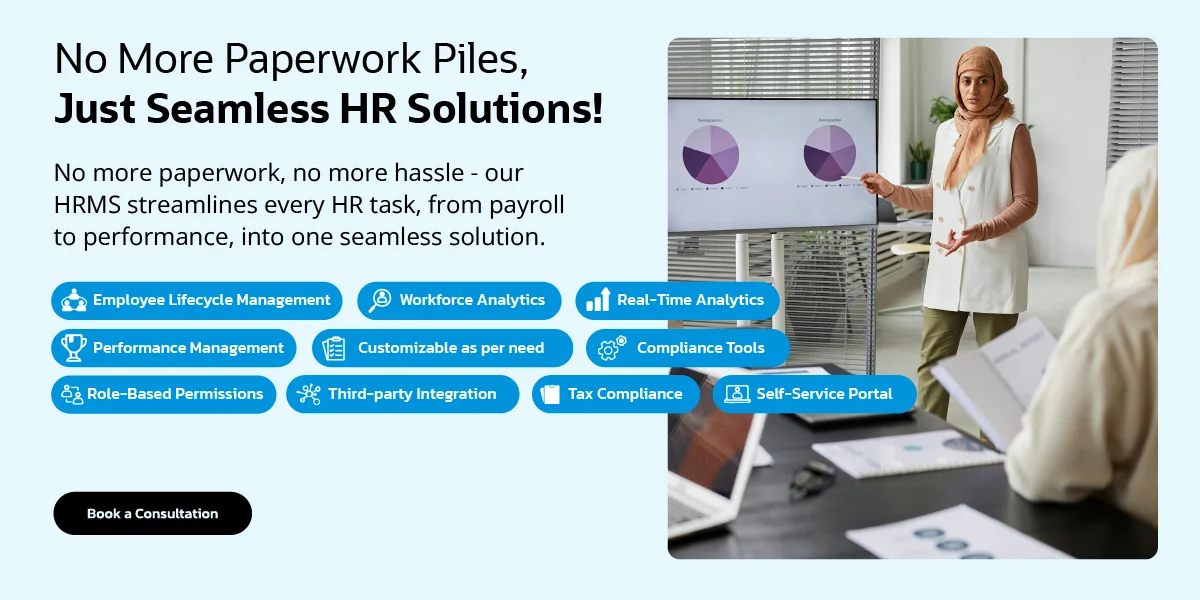
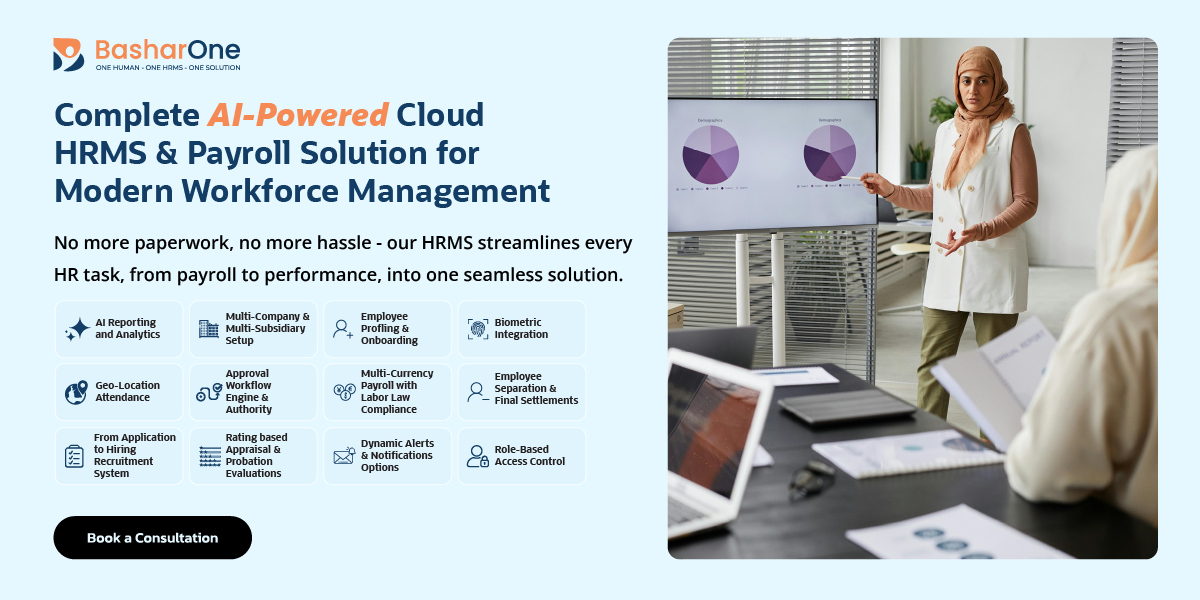
done

diff --git a/src/app/modules/Dashboard/pages/dashboard/EmpPortalComponent/AttendanceMarking.js b/src/app/modules/Dashboard/pages/dashboard/EmpPortalComponent/AttendanceMarking.js
@@ -4,6 +4,7 @@ import { useSelector, shallowEqual, useDispatch } from "react-redux";
 import * as action from "../../../_redux/dashboardActions";
 import { formatDates, formatTime } from "../../../../../utils/common";
 import { toast } from "react-toastify";
+import { Modal, Button } from "react-bootstrap";
 
 export const AttendanceMarking = () => {
   const { attRecord, currentDateTime } = useSelector(
@@ -22,6 +23,18 @@ export const AttendanceMarking = () => {
 
   const [loading, setLoading] = useState(true);
   const [date, setDate] = useState(null);
+
+  const reasons = [
+  "Late due to rain",
+  "Late due to traffic",
+  "Late due to bike / car issue",
+  "Others",
+];
+
+const [showLateModal, setShowLateModal] = useState(false);
+const [selectedReason, setSelectedReason] = useState("");
+const [otherReason, setOtherReason] = useState("");
+const [pendingAttendanceBody, setPendingAttendanceBody] = useState(null);
 
   // server/current time ko state me set karna
   useEffect(() => {
@@ -45,62 +58,176 @@ export const AttendanceMarking = () => {
     dispatch(action.getCurrentTimeAndAttendance(setLoading));
   }, [dispatch]);
 
-  const handleToggle = () => {
-    setLoading(true);
+   const defaultShift = attRecord?.defaultShift;
+  const shiftStartHour = defaultShift?.earlyIn;
+  const shiftEndHour = defaultShift?.earlyOut;
+
+ 
+
+    const isLateOrEarly = (
+    status,
+    shiftHour,
+  ) => {
+    if (!shiftHour) return false;
+
+    const shiftHourNum = parseInt(shiftHour.slice(0, 2));
+    const shiftMinNum = parseInt(shiftHour.slice(2, 4));
 
     const now = new Date();
-
-    const attendanceBody = {
-      AttDate: formatDates(now),
-      AttDateTesting: now,
-      Time: now,
-      Status: attendanceDetail?.Status === "01" ? "02" : "01",
-    };
-
-    const onSuccess = () => {
-      dispatch(action.getCurrentTimeAndAttendance(setLoading));
-    };
-
-    if (!allowedAnywhere) {
-      if (!navigator.geolocation) {
-        toast.error("Location is not supported on this device.");
-        setLoading(false);
-        return;
-      }
-
-      navigator.geolocation.getCurrentPosition(
-        (position) => {
-          const body = {
-            ...attendanceBody,
-            lat: position.coords.latitude,
-            long: position.coords.longitude,
-          };
-
-          dispatch(action.createAttendance(body, setLoading)).then(onSuccess);
-        },
-        (error) => {
-          if (error.code === error.PERMISSION_DENIED) {
-            toast.error(
-              "Location is not enabled. Please enable location services.",
-            );
-          } else if (error.code === error.POSITION_UNAVAILABLE) {
-            toast.error("Location information is unavailable.");
-          } else if (error.code === error.TIMEOUT) {
-            toast.error("Location request timed out.");
-          } else {
-            toast.error("An unknown error occurred while getting location.");
-          }
-
-          setLoading(false);
-        },
-      );
+    const shiftTime = new Date();
+    shiftTime.setHours(shiftHourNum, shiftMinNum, 0, 0);
+console.log("now",now,"shiftTime",shiftTime)
+    if (status === "01") {
+      return now > shiftTime;
     } else {
-      dispatch(action.createAttendance(attendanceBody, setLoading)).then(
-        onSuccess,
-      );
+      return now < shiftTime;
     }
   };
 
+  // const handleToggle = () => {
+  //   setLoading(true);
+
+  //   const now = new Date();
+
+  //   const attendanceBody = {
+  //     AttDate: formatDates(now),
+  //     AttDateTesting: now,
+  //     Time: now,
+  //     Status: attendanceDetail?.Status === "01" ? "02" : "01",
+  //   };
+
+  //   const onSuccess = () => {
+  //     dispatch(action.getCurrentTimeAndAttendance(setLoading));
+  //   };
+
+  //   if (!allowedAnywhere) {
+  //     if (!navigator.geolocation) {
+  //       toast.error("Location is not supported on this device.");
+  //       setLoading(false);
+  //       return;
+  //     }
+
+  //     navigator.geolocation.getCurrentPosition(
+  //       (position) => {
+  //         const body = {
+  //           ...attendanceBody,
+  //           lat: position.coords.latitude,
+  //           long: position.coords.longitude,
+  //         };
+
+  //         dispatch(action.createAttendance(body, setLoading)).then(onSuccess);
+  //       },
+  //       (error) => {
+  //         if (error.code === error.PERMISSION_DENIED) {
+  //           toast.error(
+  //             "Location is not enabled. Please enable location services.",
+  //           );
+  //         } else if (error.code === error.POSITION_UNAVAILABLE) {
+  //           toast.error("Location information is unavailable.");
+  //         } else if (error.code === error.TIMEOUT) {
+  //           toast.error("Location request timed out.");
+  //         } else {
+  //           toast.error("An unknown error occurred while getting location.");
+  //         }
+
+  //         setLoading(false);
+  //       },
+  //     );
+  //   } else {
+  //     dispatch(action.createAttendance(attendanceBody, setLoading)).then(
+  //       onSuccess,
+  //     );
+  //   }
+  // };
+
+  const submitAttendance = (attendanceBody) => {
+  const onSuccess = () => {
+    dispatch(action.getCurrentTimeAndAttendance(setLoading));
+  };
+
+  if (!allowedAnywhere) {
+    navigator.geolocation.getCurrentPosition(
+      (position) => {
+        const body = {
+          ...attendanceBody,
+          lat: position.coords.latitude,
+          long: position.coords.longitude,
+        };
+
+        dispatch(action.createAttendance(body, setLoading)).then(onSuccess);
+      },
+      () => {
+        toast.error("Unable to get location");
+        setLoading(false);
+      },
+    );
+  } else {
+    dispatch(action.createAttendance(attendanceBody, setLoading)).then(
+      onSuccess,
+    );
+  }
+};
+
+const handleToggle = () => {
+  setLoading(true);
+
+  const now = new Date();
+
+  const isLate = isLateOrEarly(
+    attendanceDetail?.Status === "01" ? "02" : "01",
+    shiftStartHour
+  );
+console.log("isLate1111111",isLate)
+  const attendanceBody = {
+    AttDate: formatDates(now),
+    AttDateTesting: now,
+    Time: now,
+    Status: attendanceDetail?.Status === "01" ? "02" : "01",
+    isLate,
+  };
+
+  if (isLate && attendanceBody.Status === "01") {
+    setPendingAttendanceBody(attendanceBody);
+    setShowLateModal(true);
+    setLoading(false);
+    return;
+  }
+
+  submitAttendance({
+    ...attendanceBody,
+    lateRemarks: "",
+    isForWorkFLow: false,
+  });
+};
+
+const handleLateReasonSubmit = () => {
+  if (!selectedReason) {
+    toast.error("Please select a reason");
+    return;
+  }
+
+  const finalReason =
+    selectedReason === "Others"
+      ? otherReason.trim()
+      : selectedReason;
+
+  if (!finalReason) {
+    toast.error("Please enter reason");
+    return;
+  }
+
+  setShowLateModal(false);
+
+  submitAttendance({
+    ...pendingAttendanceBody,
+    lateRemarks: finalReason,
+    isForWorkFLow: true,
+  });
+
+  setSelectedReason("");
+  setOtherReason("");
+  setPendingAttendanceBody(null);
+};
   const getShiftRangeDisplay = (currentShift) => {
     if (!currentShift?.shiftDetail || !currentShift?.date) return null;
 
@@ -139,7 +266,63 @@ export const AttendanceMarking = () => {
   const shiftInfo = getShiftRangeDisplay(currentShift);
 
   return (
-    <div className="mt-2 rounded-lg p-3 bg-tsecondary grid grid-cols-4 gap-2 relative">
+    <>
+    <Modal
+  show={showLateModal}
+  onHide={() => setShowLateModal(false)}
+  centered
+>
+  <Modal.Header closeButton>
+    <Modal.Title>Late Check In Reason</Modal.Title>
+  </Modal.Header>
+
+<Modal.Body>
+  <div>
+    <label className="form-label">Select Reason</label>
+
+    <select
+      className="form-control"
+      value={selectedReason}
+      onChange={(e) => setSelectedReason(e.target.value)}
+    >
+      <option value="">Select Reason</option>
+
+      {reasons.map((item) => (
+        <option key={item} value={item}>
+          {item}
+        </option>
+      ))}
+    </select>
+
+    {selectedReason === "Others" && (
+      <textarea
+        className="form-control mt-3"
+        rows={3}
+        placeholder="Enter reason..."
+        value={otherReason}
+        onChange={(e) => setOtherReason(e.target.value)}
+      />
+    )}
+  </div>
+</Modal.Body>
+
+  <Modal.Footer>
+    <Button
+      variant="secondary"
+      onClick={() => setShowLateModal(false)}
+    >
+      Cancel
+    </Button>
+
+    <Button
+      variant="primary"
+      onClick={handleLateReasonSubmit}
+    >
+      Submit
+    </Button>
+  </Modal.Footer>
+</Modal>
+      <div className="mt-2 rounded-lg p-3 bg-tsecondary grid grid-cols-4 gap-2 relative">
       <h6 className="font-bold mb-0 text-primary">Attendance</h6>
 
       <div className="inline-flex me-5 relative col-span-3">
@@ -213,5 +396,7 @@ export const AttendanceMarking = () => {
         )}
       </div>
     </div>
+    </>
+  
   );
 };
